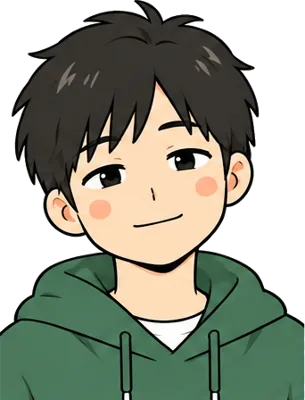
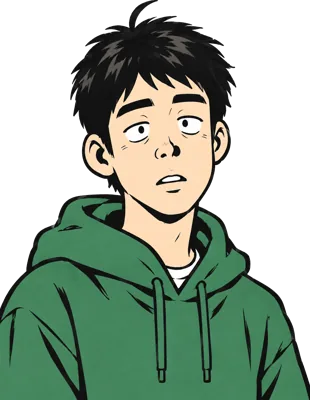
Switch 向井, 辻堂 and the male hero to the bolder drawing style
The new art has stands only, so each of them shows the neutral face for
every expression until their sheets arrive. The cut script now handles
stand-only characters and backgrounds generically.

Claude-Session: https://claude.ai/code/session_013FebaMkpT5MJPPYG928NHx

diff --git a/scripts/cut_art.py b/scripts/cut_art.py
@@ -1,4 +1,4 @@
-# ChatGPTの表情シート（2行×4列・白背景）を表情ごとに切り出し、背景を透過してwebpにする
+# ChatGPTの絵（白背景）を透過してwebpにする。表情シート（2行×4列）は表情ごとに切り出す
 # 使い方: python3 scripts/cut_art.py <元画像フォルダ> src/assets/art
 import sys
 from PIL import Image, ImageFilter
@@ -31,18 +31,29 @@ def unwhite(im, tol=30):
             if a and r>220 and g>220 and b>220 and any(0<=x+dx<w and 0<=y+dy<h and bg[(y+dy)*w+x+dx] for dx,dy in ((1,0),(-1,0),(0,1),(0,-1))):
                 px[x,y] = (r,g,b,110)
     return im
-for ch in ['mukai','hero_m','hero_f','tsujido']:
-    sheet = Image.open(f'{raw}/ch_{ch}_sheet.png')
+def finish(c):
+    # 胸元の下の白い余白を先に落とす（服の白と背景がつながらないように）
+    g = c.convert('L').load(); cw2, ch2 = c.size
+    rows = [y for y in range(ch2) if sum(1 for x in range(cw2) if g[x,y] < 235) > cw2*0.35]
+    c = c.crop((0, 0, cw2, rows[-1] - 3))
+    c = unwhite(c)
+    bb = c.getbbox(); c = c.crop((bb[0], bb[1], bb[2], c.size[1]))
+    c.thumbnail((400, 400))
+    return c
+
+import glob, os
+# 表情シートがある人は8コマに分ける。立ち絵しかない人は「ふつう」だけ作る（ほかの表情は「ふつう」で代用される）
+for path in sorted(glob.glob(f'{raw}/ch_*_sheet.png')):
+    ch = os.path.basename(path)[3:-len('_sheet.png')]
+    sheet = Image.open(path)
     W,H = sheet.size; cw, chh = W//4, H//2
     for i,e in enumerate(EXPR):
-        c = sheet.crop(((i%4)*cw, (i//4)*chh, (i%4+1)*cw, (i//4+1)*chh))
-        # 胸元の下の白い余白を先に落とす（服の白と背景がつながらないように）
-        g = c.convert('L').load(); cw2, ch2 = c.size
-        rows = [y for y in range(ch2) if sum(1 for x in range(cw2) if g[x,y] < 235) > cw2*0.35]
-        c = c.crop((0, 0, cw2, rows[-1] - 3))
-        c = unwhite(c)
-        bb = c.getbbox(); c = c.crop((bb[0], bb[1], bb[2], c.size[1]))
-        c.thumbnail((400, 400))
-        c.save(f'{out}/{ch}_{e}.webp', quality=82, method=6)
-bg = Image.open(f'{raw}/bg_kyoushitsu.png').convert('RGB'); bg.thumbnail((960,960))
-bg.save(f'{out}/bg_kyoushitsu.webp', quality=78, method=6)
+        finish(sheet.crop(((i%4)*cw, (i//4)*chh, (i%4+1)*cw, (i//4+1)*chh))).save(f'{out}/{ch}_{e}.webp', quality=82, method=6)
+for path in sorted(glob.glob(f'{raw}/ch_*_stand.png')):
+    ch = os.path.basename(path)[3:-len('_stand.png')]
+    if os.path.exists(f'{raw}/ch_{ch}_sheet.png'): continue
+    for old in glob.glob(f'{out}/{ch}_*.webp'): os.remove(old)
+    finish(Image.open(path)).save(f'{out}/{ch}_normal.webp', quality=82, method=6)
+for path in sorted(glob.glob(f'{raw}/bg_*.png')):
+    bg = Image.open(path).convert('RGB'); bg.thumbnail((960,960))
+    bg.save(f"{out}/{os.path.basename(path)[:-4]}.webp", quality=78, method=6)
